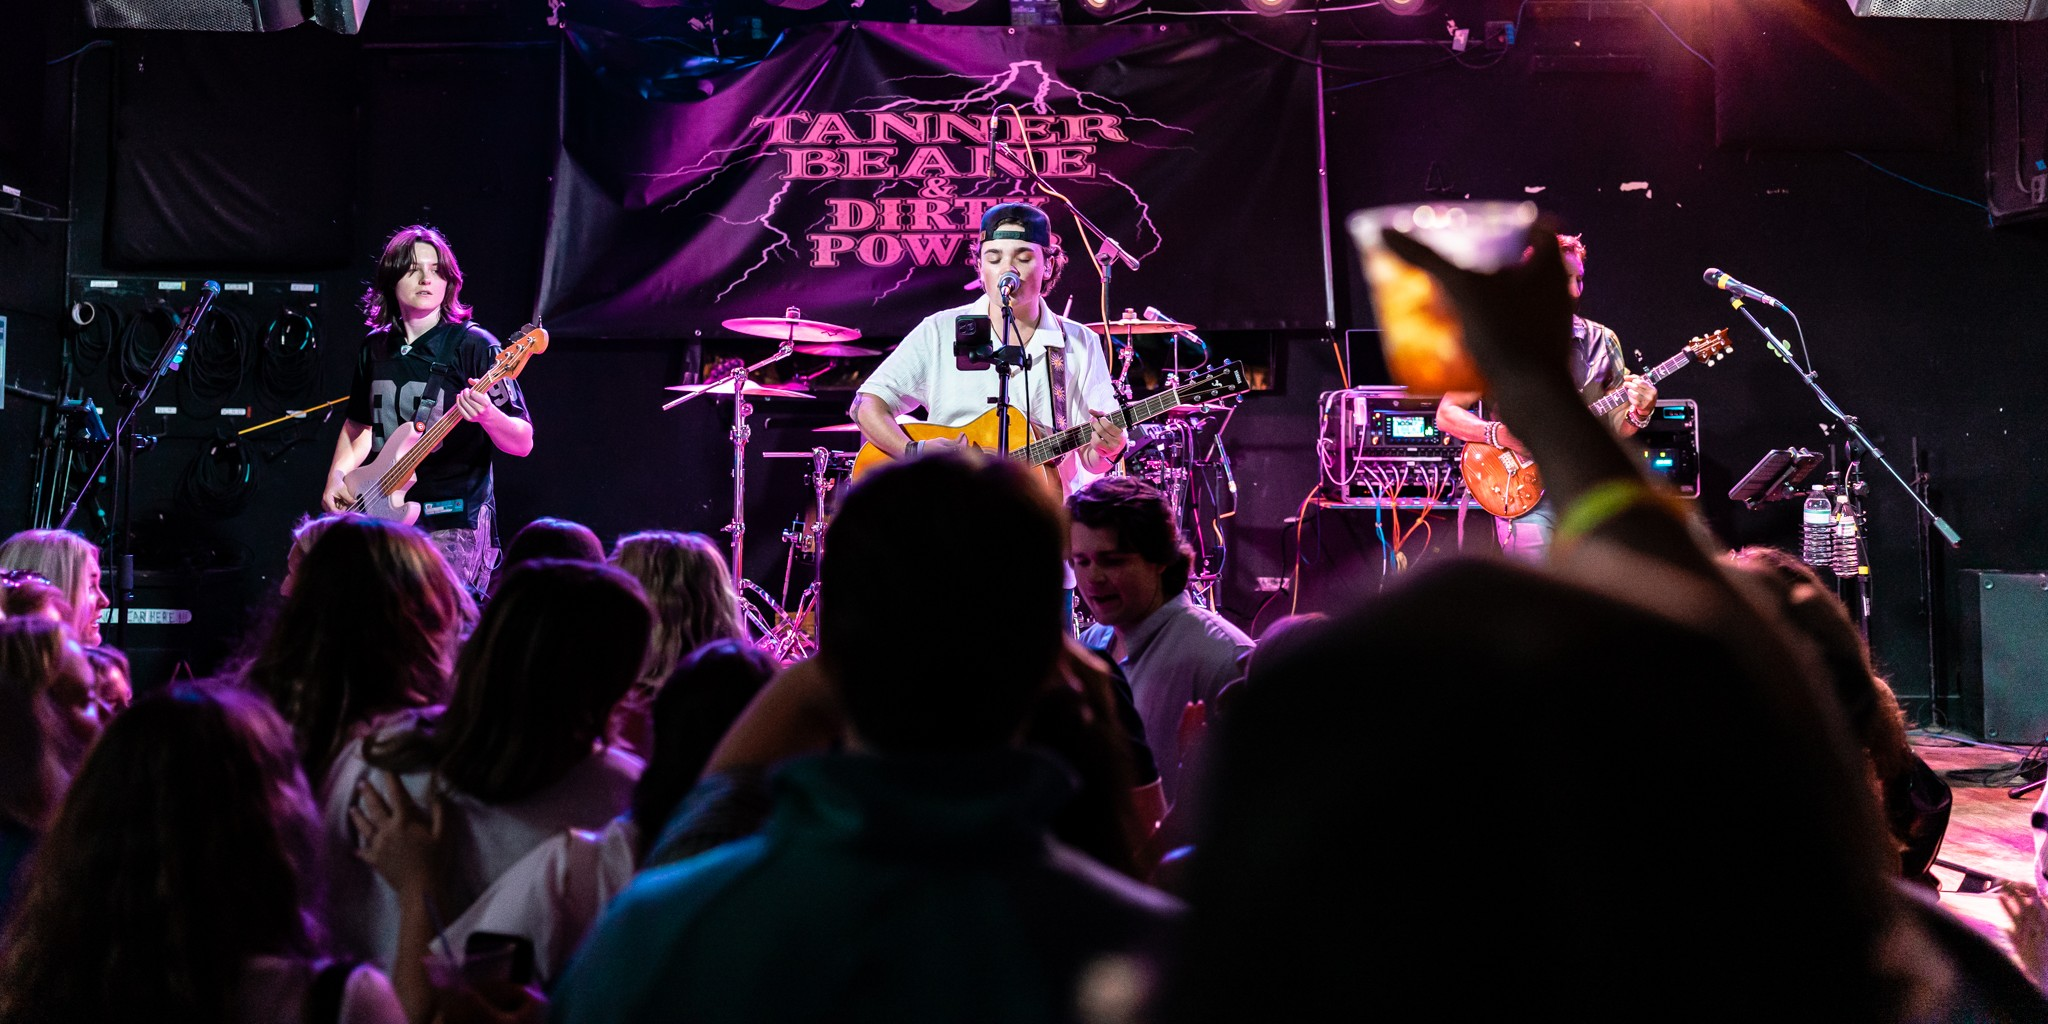
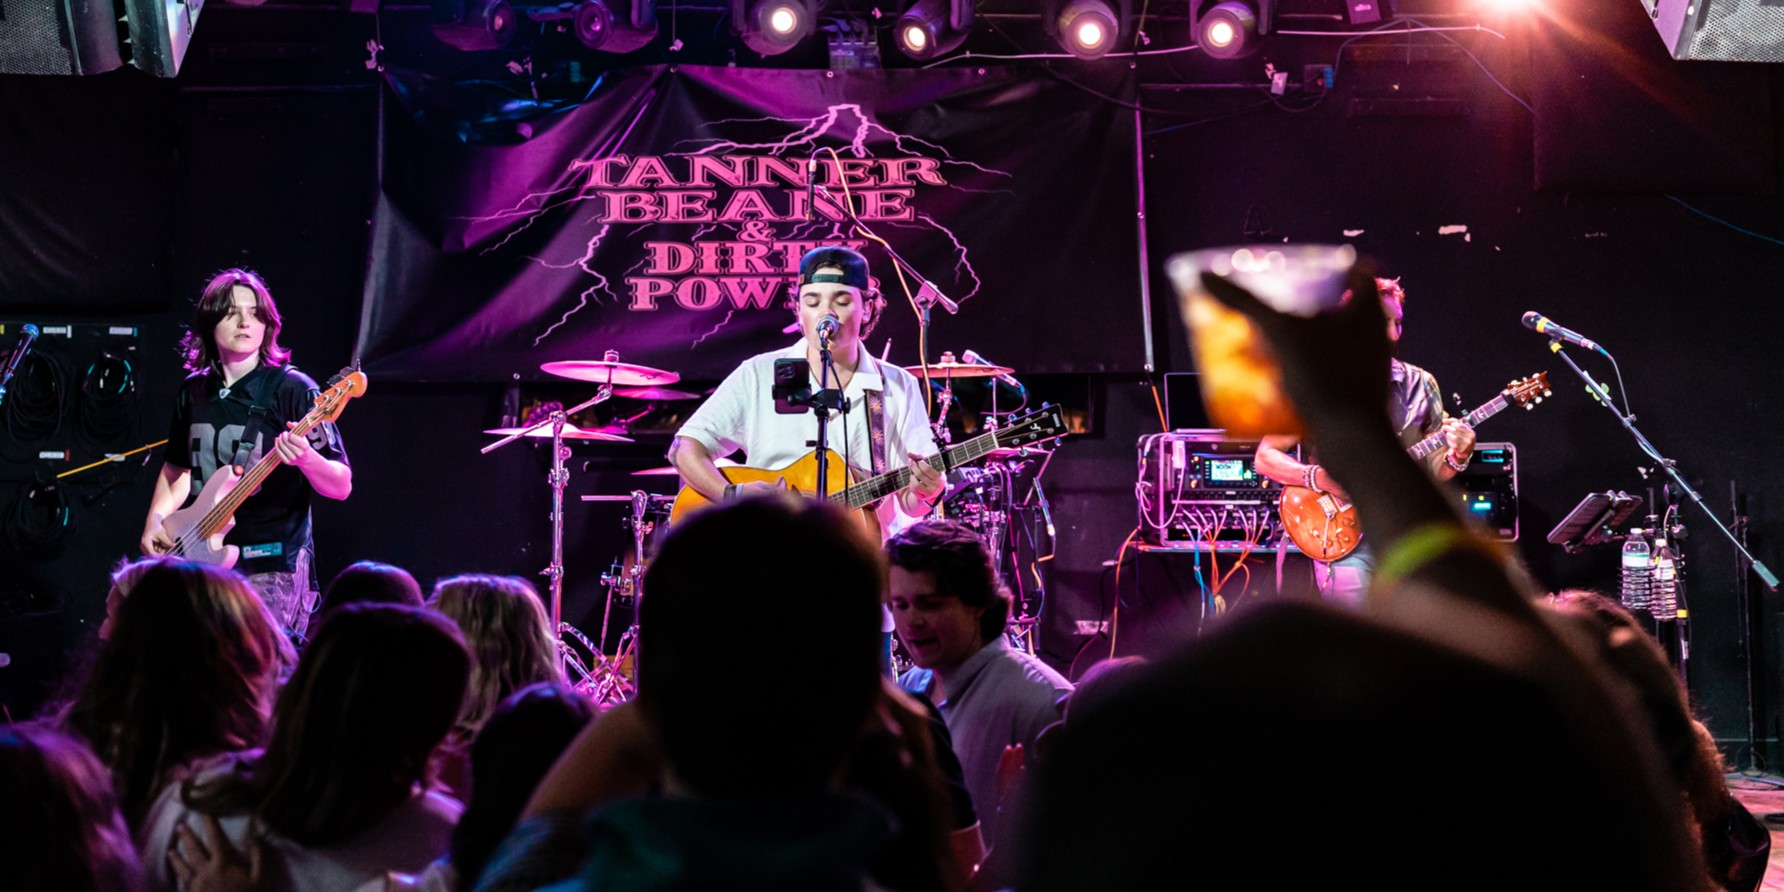
update epk

diff --git a/_sass/layouts/_posts.scss b/_sass/layouts/_posts.scss
@@ -85,6 +85,14 @@ header {
 }
 
 /* --- Feature image --- */
+.feature-image header {
+  color: var(--text-inverse);
+  margin-bottom: 0;
+  padding: 3.6% $padding-large;
+  background-size: cover;
+  background-position: top;
+}
+
 .feature-image {
   padding: 0;
 
@@ -97,10 +105,9 @@ header {
   }
 
   header {
-    color: var(--header-text);
+    color: var(--text-inverse);
     margin-bottom: 0;
-    padding: 3.6% $padding-large;
-
+    padding: 3.6% $padding-large;    
     .meta {
       color: var(--header-text);
       filter: opacity(0.7);
@@ -122,7 +129,7 @@ header {
   }
 }
 
-/*-- feature-image Responsive scrolling --*/
+/*-- feature-image Responsive scrolling --
 .feature-image header {
   @media screen and (max-width: $break) {
     padding: $padding-large*1.5 $padding-small;
@@ -139,7 +146,7 @@ header {
   @media screen and (max-width: $sm-break) {
     background-size: 400% auto;
   }
-}
+}*/
 
 .post-content {
   h1 { color: var(--h1); }

diff --git a/_sass/custom.scss b/_sass/custom.scss
@@ -110,6 +110,18 @@ audio {
   background-repeat: no-repeat;
 }
 
+.img-overlay {
+  position: absolute;
+  inset: 0;
+  background: var(--header-background);
+  opacity: 0.5;
+    z-index: 1;
+}
+
+#main {
+  background-position: top center;
+}
+
 /* Show logo instead of text on mobile */
 @media screen and (max-width: 768px) {
   /*.call-out_img {
@@ -131,6 +143,13 @@ audio {
   .call-out.call-out_img {
     background-color: #000;
     padding: 0;
+  }
+
+  #main {
+    position: relative;
+    background-size: cover;
+    background-position: center top;
+    background-repeat: no-repeat;
   }
 }
 

diff --git a/assets/js/main.min.js b/assets/js/main.min.js
@@ -129,7 +129,7 @@ document.addEventListener("DOMContentLoaded", (function (e) {
         const e = -(window.scrollY || window.pageYOffset || document.body.scrollTop) / 3,
             t = document.getElementById("main");
         if (t) {
-            t.style.backgroundPosition = `100% ${e - 50}px, 0%, center top`;
+            t.style.backgroundPosition = `center ${e - 50}px`; //Updated this, it was jumping around. This code line will center the parallax.
         }
     }, 100));
 }));

diff --git a/_sass/base/_variables.scss b/_sass/base/_variables.scss
@@ -76,7 +76,7 @@ html[data-theme="dark"] {
   --table-row-odd: #1f1f1f;
   --table-head-bg: #E5D3B3;
   --text-inverse: #000000; /* For light text on dark backgrounds */
-  --text-shadow: rgba(0, 0, 0, 0.3);
+  --text-shadow: rgba(255, 255, 255, 0.3);
 }
 
 /* BASE16 CODE HIGHLIGHT */

diff --git a/_sass/layouts/_blog.scss b/_sass/layouts/_blog.scss
@@ -53,9 +53,11 @@
   }
 }
 
-#main {
-  background-position: 100% -50px, 0 center, center top;
-}
+  #main {
+    position: relative;
+    background-size: cover;
+    background-position: center;
+  }
 
 /* --- Post listing --- */
 .posts {

diff --git a/pages/EPK.md b/pages/EPK.md
@@ -5,7 +5,7 @@ permalink: /epk/
 tags: [Page]
 description: 
 position: 2
-feature-img: "/assets/img/feature-img/1WJ.jpg"
+feature-img: "/assets/img/feature-img/IMG_4042.JPG"
 ---
 
 <div class="posts">
